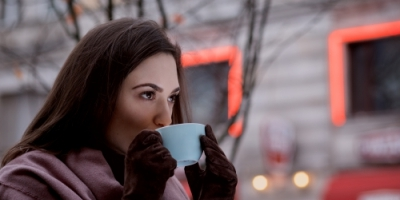
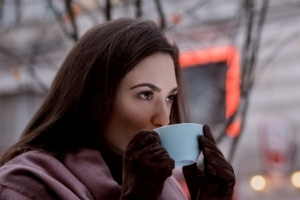
locations pics size fixed, onfocus fixed and giftcard positioned with pixels

diff --git a/location.html b/location.html
@@ -12,7 +12,7 @@
 		<header id="header">
 			<div id="maintitle">
 				<div id="title">
-					<h1>Comrade Cafe</h1>
+					<h1><a href="home.html">Comrade Cafe</a></h1>
 				</div>
 				<div id="logo">
 					<img id="mainlogo" src="images/icon.png" alt="Comrad Cafe logo">
@@ -28,18 +28,18 @@
 									<a href="menu.html">Menu</a>
 								</li>
 								<li>
-									<a href="#">Specials</a>
+									<a href="specials.html">Specials</a>
 								</li>
 								<li>
 									<a href="giftcard.html">Gift Cards</a>
 								</li>
 								<li>
-									<a href="#">Event/Booking</a>
+									<a href="events.html">Event/Booking</a>
 								</li>
 							</ul>
 						</li>
 						<li>
-							<a href="#">Location</a>
+							<a href="location.html">Location</a>
 						</li>
 						<li>
 							<a href="site-map.html">Site-Map</a>
@@ -48,10 +48,10 @@
 							<a href="aboutus.html">About Us</a>
 							<ul id="sublink2">
 								<li>
-									<a href="menu.html">Menu</a>
+									<a href="contact.html">Contact Us</a>
 								</li>
 								<li>
-									<a href="#">Specials</a>
+									<a href="careers.html">Careers</a>
 								</li>
 							</ul>
 						</li>
@@ -63,7 +63,7 @@
 			</div>
 		</header>
 		<main>
-			<h2 class="headers" id="h2_locations">Locations</h2>
+			<h2 class="headers" id="h2_locations">Location</h2>
 				<div class="location_flex_1" id="scarberia-wrapper">
 					<div id="column_left_scarberia">					
 						<img id="scarberia_pic" src="images/location/scarberia.jpg" alt="woman drinking tea in cold weather">
@@ -88,8 +88,8 @@
   				<div id="map-canvas" height="500" width="500"></div>
 				<iframe 
   					id="iframe"
-  					width="700"
-  					height="550"
+  					width="890"
+  					height="650"
   					frameborder="0" 
   					style="border:0"
   					src="https://www.google.com/maps/embed/v1/place?key=AIzaSyB-_hQ1jJbLvEGWUK4sYD412b194evXlbw

diff --git a/giftcard.html b/giftcard.html
@@ -15,7 +15,7 @@
 		<header id="header">
 			<div id="maintitle">
 				<div id="title">
-					<h1>Comrade Cafe</h1>
+					<h1><a href="home.html">Comrade Cafe</a></h1>
 				</div>
 				<div id="logo">
 					<img id="mainlogo" src="images/icon.png" alt="Comrad Cafe logo">
@@ -31,18 +31,18 @@
 									<a href="menu.html">Menu</a>
 								</li>
 								<li>
-									<a href="#">Specials</a>
+									<a href="specials.html">Specials</a>
 								</li>
 								<li>
 									<a href="giftcard.html">Gift Cards</a>
 								</li>
 								<li>
-									<a href="#">Event/Booking</a>
+									<a href="events.html">Event/Booking</a>
 								</li>
 							</ul>
 						</li>
 						<li>
-							<a href="#">Location</a>
+							<a href="location.html">Location</a>
 						</li>
 						<li>
 							<a href="site-map.html">Site-Map</a>
@@ -54,7 +54,7 @@
 									<a href="menu.html">Menu</a>
 								</li>
 								<li>
-									<a href="#">Specials</a>
+									<a href="contact.html">Contact Us</a>
 								</li>
 							</ul>
 						</li>
@@ -156,6 +156,7 @@
 					</div>
 				</div> <!-- end of second sidebar div -->
 			</form>
+			<div id="txt_box_message_wrapper">
 				<div id="txtbox_message">
 					<label for="message" class="form_font">Message:</label>
 					<br>
@@ -169,6 +170,7 @@
 				<div id="thank_you_message">
 					<h2>Thank you for your purchase! Your giftcard will be ready for pick-up in 4 hours!</h2>
 				</div>
+			</div>
 		</main>
 
 	</div> <!-- end of page wrapper div -->

diff --git a/style/giftcard.css b/style/giftcard.css
@@ -1,3 +1,6 @@
+/*DEFAULT OVERRIDES*/
+
+
 
 /* 
 ------------------------
@@ -9,8 +12,8 @@ GIFTCARD
 #giftcard{
 	border:6px solid #AC2430;
 	border-radius: 1em;
-	width: 45%;
-	min-height: 18em;
+	max-width: 450px;
+	min-height: 175px;
 	background-color: white;
 	display:flex;
 	margin-left: 28%;
@@ -27,8 +30,8 @@ GIFTCARD
 	max-height: 4em;
 	z-index: 1;
 	position: absolute;
-	top:39%;
-	left:31%;
+	top:110px;
+	left:65px;
 }
 
 #gcHeader{
@@ -78,10 +81,16 @@ label {
 	margin-top: 1em;
 	border: 2px solid rgba(0,0,0,.1);
 	border-radius: 10px;
+
 }
 #txtbox_message{
-	padding-left: 45%;
+	padding-left: 40%;
 	padding-top: 2%;
+}
+#txt_box_message_wrapper{
+	 margin-left: auto;
+  	margin-right: auto;
+	position: relative;
 }
 #fname{
 	min-width: 17em;
@@ -95,12 +104,13 @@ label {
 	min-width: 14.75em;
 	min-height: 2.25em;
 }
-#fname, #to_giftee, #input_amount{
+#fname, #to_giftee, #input_amount, #messagetxtbox{
 	/*border: 2px solid rgba(0,0,0,.1);*/
   	font-family:'Rajdhani', sans-serif;
   	border-radius: 10px;
   	padding: 7px;
   	font-size: 14px;
+  	outline: none;
 }
 #fname:focus, #to_giftee:focus, #input_amount:focus, #messagetxtbox:focus{
 	border: 2px solid #AC2430;
@@ -141,7 +151,7 @@ label {
 /*BUTTONS*/
 
 #bottom_btn_div{
-	padding-left: 46%;
+	padding-left: 43%;
 	padding-top: 2.5%;
 }
 .btn_bottom{

diff --git a/style/location.css b/style/location.css
@@ -20,7 +20,7 @@ main{
 	font-size: 3em;
 }
 #h2_locations{
-  margin-left: 35%;
+  padding-left: 10%;
 }
 h3{
 	color: #594A42;
@@ -43,14 +43,10 @@ p{
 #middle_box{
 	text-align: center;
 }
-#scarberia_pic{
-  min-height: 12.75em;
-	max-height: 12em;
-	padding-bottom: 1em;
+#scarberia_pic, #trendy_cafe{
+	padding-bottom: 2em;
 }
-#trendy_cafe{
-	min-height: 100px;
-}
+
 
 /*FORM*/
 

diff --git a/style/aboutus.css b/style/aboutus.css
@@ -56,6 +56,7 @@ h2, p {
 	font-family: 'Rajdhani', sans-serif;
 	color: white;
 	font-size: 1.25em;
+	outline: none;
 }
 .btns_top:hover{
 	cursor: pointer;
